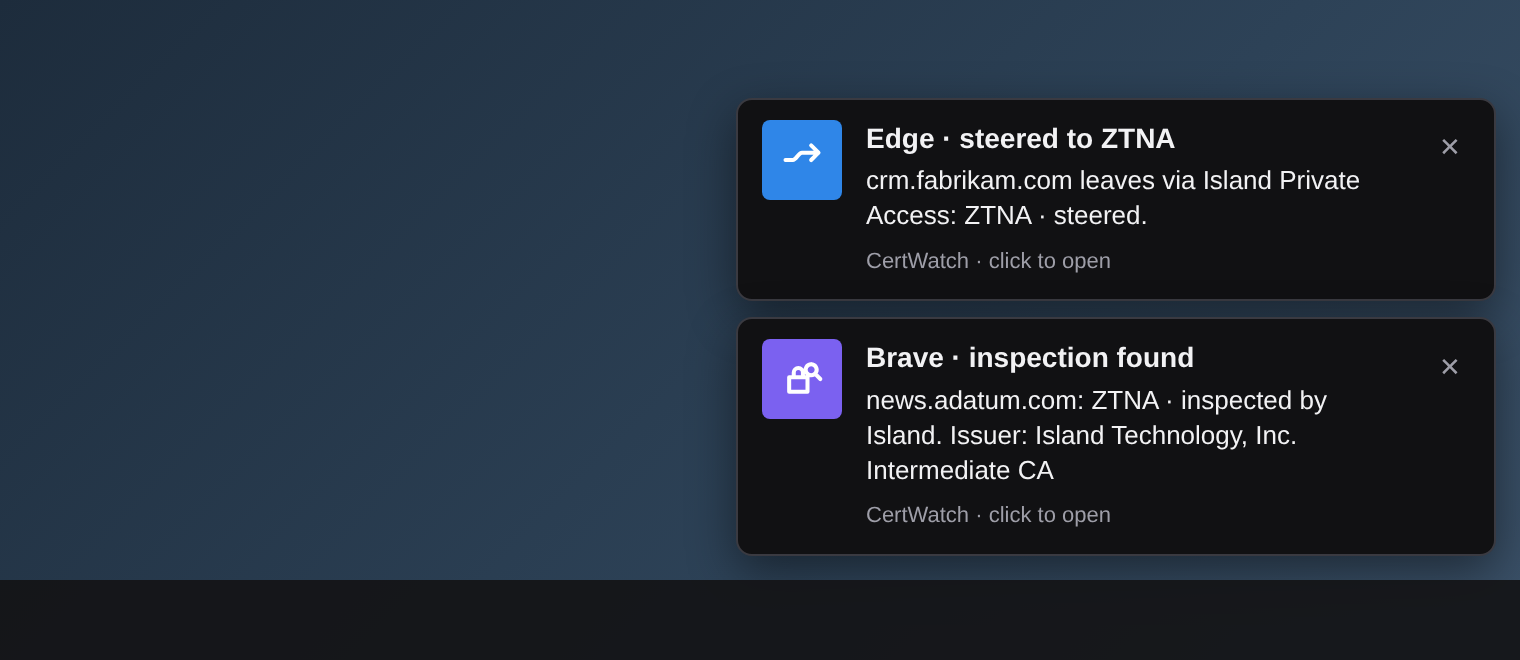
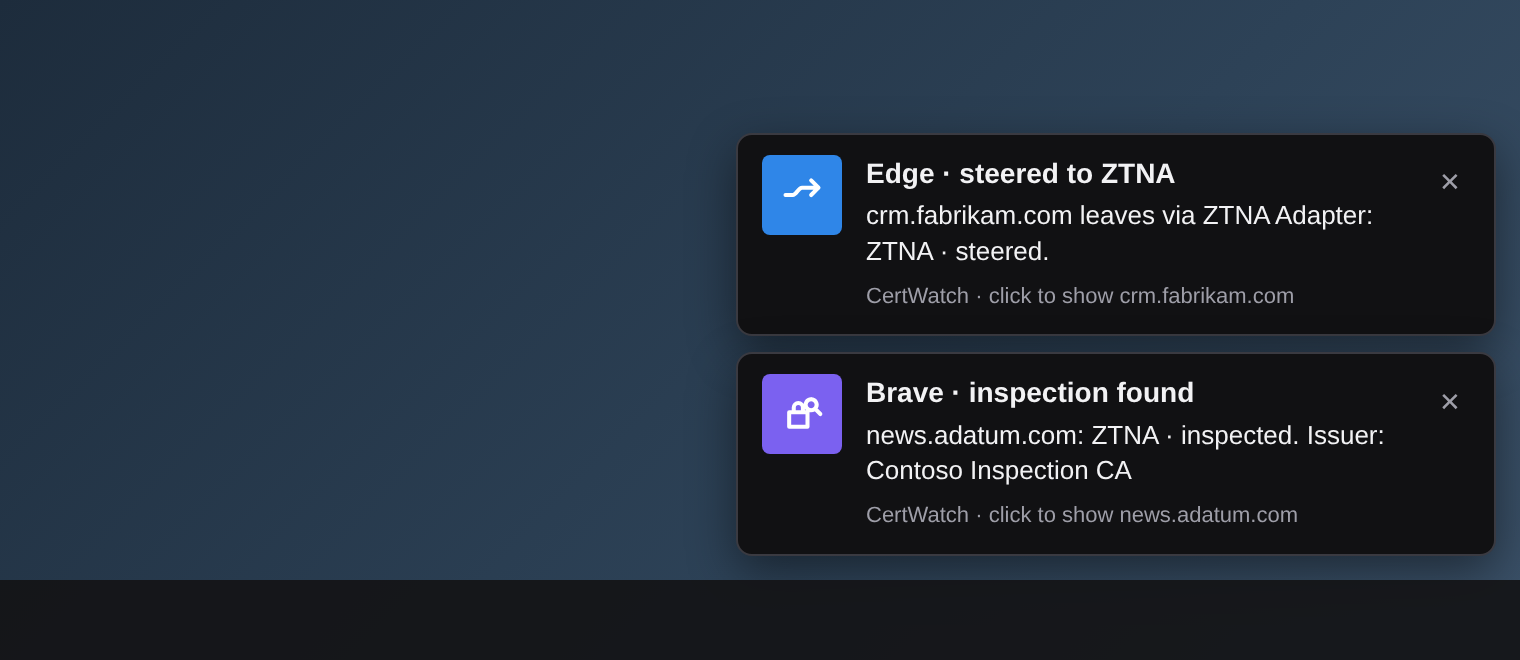
docs: neutral ZTNA wording in the README screenshots
Replace Island in the mock-ups with a generic "ZTNA Adapter" and a
fictitious Contoso inspection CA, use the app's vendor-less wording, and
show the new "click to show <site>" pop-up hint.

Changed region(s): [[0.4638, 0.1515, 0.9895, 0.7273], [0.6803, 0.7576, 0.8658, 0.7879]]

diff --git a/README.md b/README.md
@@ -15,17 +15,17 @@ These are illustrations drawn from the app's own theme colours and layout, with 
 data (Contoso, Fabrikam and Adatum are fictitious names), not captures of a real session.
 
 **Steered to ZTNA, not inspected (Dark).** Edge on `crm.fabrikam.com`: traffic leaves through the
-Island Private Access tunnel, and the chain ends at a public root, so the certificate is the site's
-own. The path reads Edge → Island Private Access → site, and the facts show the route and the IP
+ZTNA adapter's tunnel, and the chain ends at a public root, so the certificate is the site's
+own. The path reads Edge → ZTNA Adapter → site, and the facts show the route and the IP
 actually connected to.
 
 ![CertWatch in the Dark theme, showing a site steered to ZTNA and not inspected](docs/screenshots/dark-steered.png)
 
 **Steered and inspected (Flashbang).** Brave on `news.adatum.com`: the certificate was replaced by
-Island's inspection CA, chaining to a private root this PC trusts, so the card turns violet, names
-the vendor, and adds the inspection step to the path.
+an inspection CA chaining to a private root this PC trusts, so the card turns violet and adds the
+inspection step to the path. (When CertWatch recognises the inspecting vendor, it names it.)
 
-![CertWatch in the Flashbang theme, showing a site steered to ZTNA and inspected by Island](docs/screenshots/flashbang-inspected.png)
+![CertWatch in the Flashbang theme, showing a site steered to ZTNA and inspected](docs/screenshots/flashbang-inspected.png)
 
 **Pop-ups.** CertWatch's own cards in the corner of the screen when a site is steered, inspection
 is found, or traffic moves. Do not disturb doesn't hide them, so the audience sees them during a
